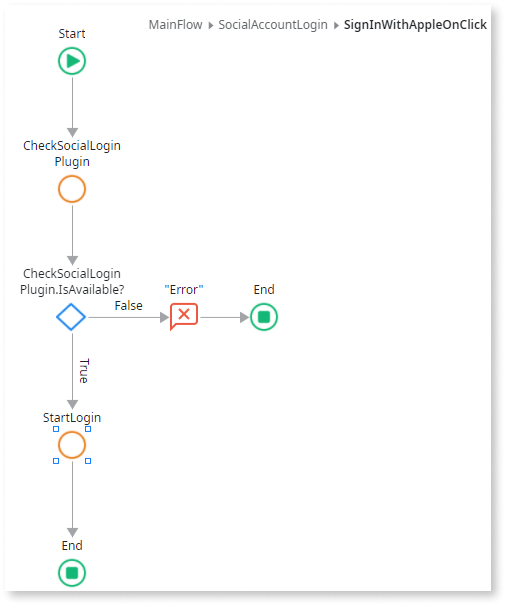
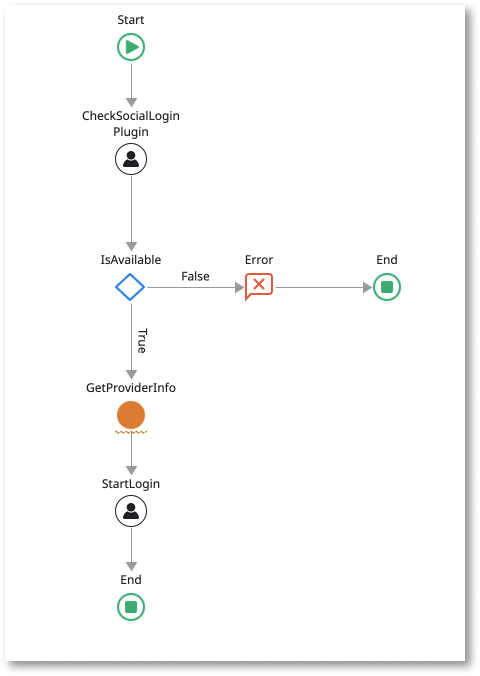
RMET-2253 ::: Update social login plugin documentation (#742)

diff --git a/src/extensibility-and-integration/mobile-plugins/social-login/intro.md b/src/extensibility-and-integration/mobile-plugins/social-login/intro.md
@@ -7,7 +7,7 @@ app_type: mobile apps
 platform-version: o11
 ---
 
-# Social login Plugin
+# Social Login plugin
 
 <div class="info" markdown="1">
 
@@ -15,9 +15,13 @@ Applies only to Mobile Apps.
 
 </div>
 
-The [Social Login plugin](https://www.outsystems.com/forge/component-overview/7895/social-login-mobile) lets you set a login experience that uses an external provider, namely Google, Apple, Facebook, or LinkedIn. The plugin enables you to request access to a subset of your user's data stored by the provider, such as name, email, and profile picture. You can then use this information to create or start a user session on your app.
+The [Social Login plugin](https://www.outsystems.com/forge/component-overview/7895/social-login-mobile) provides a login service that uses an external provider, namely Google, Apple, Facebook, or LinkedIn.
+The plugin enables you to request access to a subset of your user's data stored by the provider, such as name, email, and profile picture.
+You can then use this information to create or start a user session on your app.
 
-As a good practice, verify the plugin is available during runtime in your app to prevent the app from crashing. Use the **Logic** > **Client Actions** > **SocialLoginPlugin** > **CheckSocialLoginPlugin** action to check for the plugin availability. If the plugin isn't available to the app, display an error to your users.
+As a good practice, verify the plugin is available during runtime in your app to prevent the app from crashing.
+Use the **Logic** > **Client Actions** > **SocialLoginPlugin** > **CheckSocialLoginPlugin** action to check for the plugin availability.
+If the plugin isn't available to the app, display an error to your users.
 
 <div class="info" markdown="1">
 
@@ -27,7 +31,8 @@ To learn how to install and reference a plugin in your OutSystems apps, and how 
 
 ## Sample app
 
-OutSystems provides a sample app that contains logic for common use cases. Install the Social Login sample app from Forge and then open it in Service Studio.
+OutSystems provides a sample app that contains logic for common use cases.
+Install the Social Login sample app from Forge and then open it in Service Studio.
 
 This sample app shows you how to do the following:
 
@@ -39,7 +44,9 @@ This sample app shows you how to do the following:
 
 <div class="info" markdown="1">
 
-The next step in the development of a mobile app is to use the profile info (including name, email, and profile picture) returned by the provider to create a user or manage a session on the OutSystems Users service. This is not shown in the sample app, but it can be done resorting to the User systems database and its entity actions.
+The next step in the development of a mobile app is to use the profile information (name, email, and profile picture) returned by the provider.
+Use these to create a user or manage a session on the OutSystems Users service.
+This isn't shown in the sample app but is possible by using the User systems database and its entity actions.
 
 </div>
 
@@ -59,35 +66,40 @@ The following steps show how to enable your users to log in to your app using an
 
 ### Set up social login providers for your app { #set-providers }
 
-Before being able to provide the option for social login in an app, you need to configure a new provider to be used in that app. For that, you can use our Social Login Configurator, a Reactive Web app that lets you set up a new provider to use on your app.
+Before being able to provide the option for social login in an app, you need to configure the providers used in that app.
+For that, you **must** use the Social Login Configurator, a Reactive Web app that lets you set up a new provider to use with your app.
 
-Access Social Login Configurator at `https://<your-environment>/SocialLoginConfigurator/`, replacing &lt;your-environment&gt; with the address of your development environment.
+Access the Social Login Configurator at `https://<your-environment>/SocialLoginConfigurator/`, replacing `<your-environment>` with the address of your development environment.
 
-To configure a new provider or edit an existing one you need to add the following information (depending on the provider):
+To configure a new provider or edit an existing one you need to add the following information (there are differences depending on the provider):
 
 #### Apple
 
 Relevant Information | Description
 ---|---
-Identifier | A public identifier your app on the provider side. It is a string type value available to any registered developer on Apple Developer. You can access the Identifier value on the Certificates, Identifiers, and Profiles pages of your app.
+Identifier | A public identifier your app on the provider side. It's a string type value available to any registered developer on Apple Developer. You can access the Identifier value on the Certificates, Identifiers, and Profiles pages of your app.
 Key ID | Key ID corresponding to your Secret (`.p8`).
 Team ID | Identifier of your team on Apple Developer.
 Secret (`.p8`) | A confidential code known only to your app and the authorization server. It's a string type value type value available to any registered developer on Apple Developer. You can access the Secret value during the configuration creation on Apple Developer.
 
-Check information on OAuth configuration of Apple login in [Getting Started - Sign in with Apple - Apple Developer](https://developer.apple.com/sign-in-with-apple/get-started/).
+Check the information on the OAuth configuration of Apple login in [Getting Started - Sign in with Apple - Apple Developer](https://developer.apple.com/sign-in-with-apple/get-started/).
 
 #### Google
 
-You need to create a configuration for the different ways you want to distribute your app. This is defined in the **Define your App Type** field. For example, if your app is distributed as an Android app and as a PWA, you need to create two provider configurations.
+You need to create a configuration for the different ways you want to distribute your app.
+This is in the **Define your App Type** field.
+For example, if your app is distributed both as an Android app and as a PWA, you need two provider configurations.
 
 Relevant Information | Description
 ---|---
-Client ID | A public identifier your app on the provider side. It is a string type value available to any registered developer on the Google Cloud Platform. You can access the ClientID value on the OAuth Consent tab on your app's Credentials screen.
-Client Secret | A confidential code known only to your app and the authorization server. It is a string type value type value available to any registered developer on the Google Cloud Platform. You can access the ClientSecret value on the OAuth Consent tab on your app's Credentials screen.
+Client ID | A public identifier your app on the provider side. It's a string type value available to any registered developer on the Google Cloud Platform. You can access the ClientID value on the OAuth Consent tab on your app's Credentials screen.
+Client Secret | A confidential code known only to your app and the authorization server. It's a string type value type value available to any registered developer on the Google Cloud Platform. You can access the ClientSecret value on the OAuth Consent tab on your app's Credentials screen.
 
-While developing and testing your app, you can use the debug certificate fingerprint (SHA-1) that you obtain from your debug keystore file, and then use it for the Android OAuth client configuration on the Google Cloud Console. 
+While developing and testing your app, you can use the debug certificate fingerprint (SHA-1) that you obtain from your debug keystore file.
+Then use it for the Android OAuth client configuration on the Google Cloud Console.
 
-For Android apps in production, you must obtain the release certificate fingerprint (SHA-1 hash) using your production Keystore file (.jks), and update the Android OAuth client configuration on the Google Cloud Console to use it.  
+For Android apps in production, you must obtain the release certificate fingerprint (SHA-1 hash) using your production Keystore file (.jks).
+Then update the Android OAuth client configuration on the Google Cloud Console to use it.
 
 Find out how to obtain debug and release certificates [here](https://developers.google.com/android/guides/client-auth#self-signing_your_application).
 
@@ -95,23 +107,25 @@ Find more information on OAuth configuration of Google login in [Start Integrati
 
 #### Facebook
 
-You need to create a configuration for the different ways you want to distribute your app. This is defined in the **Define your App Type** field. For example, if your app is distributed as an Android app and as a PWA, you need to create two provider configurations.
+You need to create a configuration for the different ways you want to distribute your app.
+Define configuration in the **Define your App Type** field.
+Note that, for example, if your app is distributed both as an Android app and as a PWA, you need to create two provider configurations.
 
 Relevant Information | Description
 ---|---
-App ID | A public identifier your app on the provider side. It is a string type value available to any registered developer on Meta for Developers. You can access the AppID value in your app's settings.
-App Secret | A confidential code known only to your app and the authorization server. It is a string type value available to any registered developer on Meta for Developers. You can access the AppSecret value in your app's settings.
+App ID | A public identifier your app on the provider side. It's a string type value available to any registered developer on Meta for Developers. You can access the AppID value in your app's settings.
+App Secret | A confidential code known only to your app and the authorization server. It's a string type value available to any registered developer on Meta for Developers. You can access the AppSecret value in your app's settings.
 
-Check information on OAuth configuration of Facebook login in [Facebook Login - Documentation - Facebook for Developers](https://developers.facebook.com/docs/facebook-login/).
+Check the information on the OAuth configuration of Facebook login in [Facebook Login - Documentation - Facebook for Developers](https://developers.facebook.com/docs/facebook-login/).
 
 #### Linkedin
 
 Relevant Information | Description
 ---|---
-Client ID | A public identifier your app on the provider side. It is a string type value available to any registered developer on LinkedIn Developer. You can access the Identifier value on the "Authentication" side navigation link, underneath the header "Authentication Keys".
-Client Secret | A confidential code known only to your app and the authorization server. It is a string type value available to any registered developer on LinkedIn Developer. You can access the Identifier value on the "Authentication" side navigation link, underneath the header "Authentication Keys".
+Client ID | A public identifier your app on the provider side. It's a string type value available to any registered developer on LinkedIn Developer. You can access the Identifier value on the "Authentication" side navigation link, underneath the header "Authentication Keys".
+Client Secret | A confidential code known only to your app and the authorization server. It's a string type value available to any registered developer on LinkedIn Developer. You can access the Identifier value on the "Authentication" side navigation link, underneath the header "Authentication Keys".
 
-Check information on OAuth configuration of LinkedIn login in [Sign In with LinkedIn documentation](https://docs.microsoft.com/en-us/linkedin/consumer/integrations/self-serve/sign-in-with-linkedin?context=linkedin/consumer/context)
+Check the information on the OAuth configuration of LinkedIn login in [Sign In with LinkedIn documentation](https://docs.microsoft.com/en-us/linkedin/consumer/integrations/self-serve/sign-in-with-linkedin?context=linkedin/consumer/context)
 
 ### Create a button and logic to trigger social login flows { #login-flow }
 
@@ -119,19 +133,22 @@ The plugin triggers a social login flow through the **StartLogin** client action
 
 To enable social logins in your app's login screen, do the following:
 
-1. In your app's login screen, add a **Button** for each social login provider you want to enable. Ensure you follow the provider's branding guidelines when creating each button.
+1. In your app's login screen, add a **Button** for each social login provider you want to enable.
+Ensure you follow the provider's branding guidelines when creating each button.
 
-1. For each button you added in the previous step, add an action to handle the **On Click** event. In the properties of each social login button, open the **Events** > **On Click** dropdown and select **New Client Action**.
+1. For each button you added in the previous step, add an action to handle the **On Click** event.
+In the properties of each social login button, open the **Events** > **On Click** dropdown and select **New Client Action**.
 
-    ![Add an action to handle the On Click event of social login button](images/social-new-action-ss.png)
+    ![Add an action to handle the On Click event of the social login button](images/social-new-action-ss.png)
 
-1. In the action flow of each action you created in the previous step, check if the plugin is working properly during runtime. After the **Start** node, add a **CheckSocialLoginPlugin** action.
+1. In the action flow of each action you created in the previous step, check if the plugin is working properly during runtime.
+After the **Start** node, add a **CheckSocialLoginPlugin** action.
 
 1. Handle the response from CheckSocialLoginPlugin. After **CheckSocialLoginPlugin**, add an **If**.
 
 1. Set the **Condition** of the **If** to `CheckSocialLoginPlugin.IsAvailable`.
 
-1. In the **False** branch of the **If**, add a **Message**, set the message **Type** to `Error`, and set a **Message** to be show to end users.
+1. In the **False** branch of the **If**, add a **Message**, set the message **Type** to `Error`, and set a **Message** to show to end users.
 
 1. Connect the **Message** to an **End**.
 
@@ -141,22 +158,23 @@ To enable social logins in your app's login screen, do the following:
 
     ![The finished social login flow](images/social-flow-ss.png)
 
-1. In the **Data** tab, create a **Site Property** named `EnvironmentAddress`, and set it's default value to your environment address, `https://<your-environment>`. When you deploy your app to another environment make sure you set its value to the corresponding environment address.
+1. In the **Data** tab, create a **Site Property** named `EnvironmentAddress`, and set its default value to your environment address, `https://<your-environment>`. To obtain the value of this property, create a **Server Action**.
+When you deploy your app to another environment make sure you set its value to the corresponding environment address.
 
-1. In the properties of **StartLogin** action, set the values for the  mandatory inputs:
+1. In the properties of the **StartLogin** action, set the values for the  mandatory inputs:
 
     Provider
-    :   The social login provider.
+    : The social login provider.
 
     ClientID
-    :   A text type value available to any registered developer on the Provider development platform. You can access the ClientID value on the settings of your OAuth configuration.
+    : A text type value available to any registered developer on the Provider development platform. You can access the ClientID value on the settings of your OAuth configuration.
 
     RedirectURI
-    :   A text type value that will send you the authorization result for any backend service you may be using. You can specify the RedirectURI on the settings of your Provider OAuth configuration.
+    : A text type value that will send you the authorization result for any backend service you may be using. You can specify the RedirectURI on the settings of your Provider OAuth configuration.
 
     The Redirect URI is a combination of your environment URL and the **AuthenticationRedirect** URL. Set the **Redirect URI** by doing the following:
 
-    1. Get the **AuthenticationRedirect** URL for each providers from the following list, or by opening the Social Login Configurator app in Service Studio, and then in the **Logic** tab, go to **REST integration** > **SocialLoginAuth**:
+    1. Get the **AuthenticationRedirect** URL for each provider from the following list, or by opening the Social Login Configurator app in Service Studio, and then in the **Logic** tab, go to **REST integration** > **SocialLoginAuth**:
 
[2 lines of base64/hex data omitted]
@@ -167,9 +185,9 @@ To enable social logins in your app's login screen, do the following:
 
             EnvironmentAddress + "<authentication-redirect-url>"
 
-        Where the **EnvironmentAddress** is the site property that holds the environment address, and **&lt;authentication-redirect-url&gt;** is the **AuthenticationRedirect** URL for the provider.
+        `EnvironmentAddress` is the site property that holds the environment address and `<authentication-redirect-url>` is the **AuthenticationRedirect** URL for the provider.
 
-1. For the following social login providers and app type combinations, add **SocialLoginsConfigurations.json** file in the **Resources** folder of your app:
+1. For the following social login providers and app type combinations:
 
     Social Login provider | App Type
     ---|---
@@ -178,15 +196,35 @@ To enable social logins in your app's login screen, do the following:
     Facebook | Android, iOS
     LinkedIn | Android, iOS
 
-    * Note that the **Target Directory** parameter of the **Resource** must be filled with `json-config`.
-    
-    ![SocialLoginsConfigurations.json resource with Target Directory set as json-config](images/social-config-ss.png)
+    you'll need to add configurations to your app's Extensibility Configurations:
 
-    * Get the JSON configuration file, **SocialLoginsConfigurations.json**, from the **App Details** on your **Social Login Configurator**.
+    ```JSON
+        {
+            "preferences": {
+                "global": [
+                    {
+                        "name": "SOCIAL_CONF_API_ENDPOINT",
+                        "value": "https://<your-environment>/SocialLoginConfigurator/rest/v1/configurations"
+                    }
+                ]
+            }
+        }
+    ```
+
+    It's via the REST endpoint in these Extensibility Configurations that we'll have access to what you have configured in the Social Login Configurator Reactive Web App.
+
+<div class="warning" markdown="1">
+
+ Previous versions of the Social Login Plugin and Configurator required the download and use of the **SocialLoginConfigurations.json** file.
+ This is deprecated from Social Login Mobile Plugin Version ≥ 4.0.0 and Social Login Configurator Version ≥ 4.0.0.
+ Delete this file from your app's Resources (if present).
+
+</div>
 
 ### Handle authentication response and login scope { #auth-response }
 
-For your app to handle failed login attempts and access the output information of a social login, also known as login scope, you need add the **Authenticate** block from **SocialLoginMobilePlugin** to the screen where the **StartLogin** action occurs. Do the following:
+So that your app can handle failed login attempts and access the output information of a social login, also known as login scope, you need to add the **Authenticate** block from **SocialLoginMobilePlugin** to the screen where the **StartLogin** action occurs.
+Do the following:
 
 1. In the login screen where you call **StartLogin**, add the **Authenticate** block from **SocialLoginMobilePlugin** to the **Bottom** placeholder.
 
@@ -196,11 +234,12 @@ For your app to handle failed login attempts and access the output information o
 
 1. Set the **Condition** of the **If** to `Success`.
 
-1. In the **False** branch of the **If**, add a **Message**, set the message **Type** to `Error`, and set a **Message** to be show to end users. This message is shown if the authentication fails, and you may use the **Error.ErrorMessage** from the **Authenticate** block.
+1. In the **False** branch of the **If**, add a **Message**, set the message **Type** to `Error`, and set a display **Message** for end users.
+This message displays if the authentication fails, and you may use the **Error.ErrorMessage** from the **Authenticate** block.
 
 1. Connect the **Message** to an **End**.
 
-1. Connect the **True** branch of the **If** to a **Destination** and select the screen where you want users to vanigate to after a sucessful login.
+1. Connect the **True** branch of the **If** to a **Destination** and select the screen where you want users to navigate after a successful login.
 
 After setting up your block handler, you can use the login scope by passing the OnAuthenticationCompleted block variables to any destination of your choice.
 
@@ -217,16 +256,19 @@ Token | Text | User's access token stored by the social login provider. |
 
 ### Create logic to map users to OutSystems end users { #map-users }
 
-Ensure you map social login users to [OutSystems end users](../../../develop/security/end-user-manage/intro.md). Note that users that sign in using the social login count as non-anonymous end users. This means that they count towards the user limits established in your subscription.
+Ensure you map social login users to [OutSystems end users](../../../develop/security/end-user-manage/intro.md).
+Note that users that sign in using the social login count as non-anonymous end users.
+This means that they count towards the user limits established in your subscription.
 
-Use the methods available in the [Users API](../../../ref/apis/auto/users-api.final.md) to create or update end user records.
+Use the methods available in the [Users API](../../../ref/apis/auto/users-api.final.md) to create or update end-user records.
 
 ## Known issues and workarounds
 
 Check the following known issues and possible workarounds.
 
-### Compatibility with operative systems
+### Compatibility with operating systems
 
-Applies to iOS only.
+#### iOS only.
 
-The native login flow for Apple sign is only available for iOS 13 and later versions. For earlier iOS versions, use the PWA login flow.
+The native login flow for Apple sign is only available for iOS 13 and later versions.
+For earlier iOS versions, use the PWA login flow.
